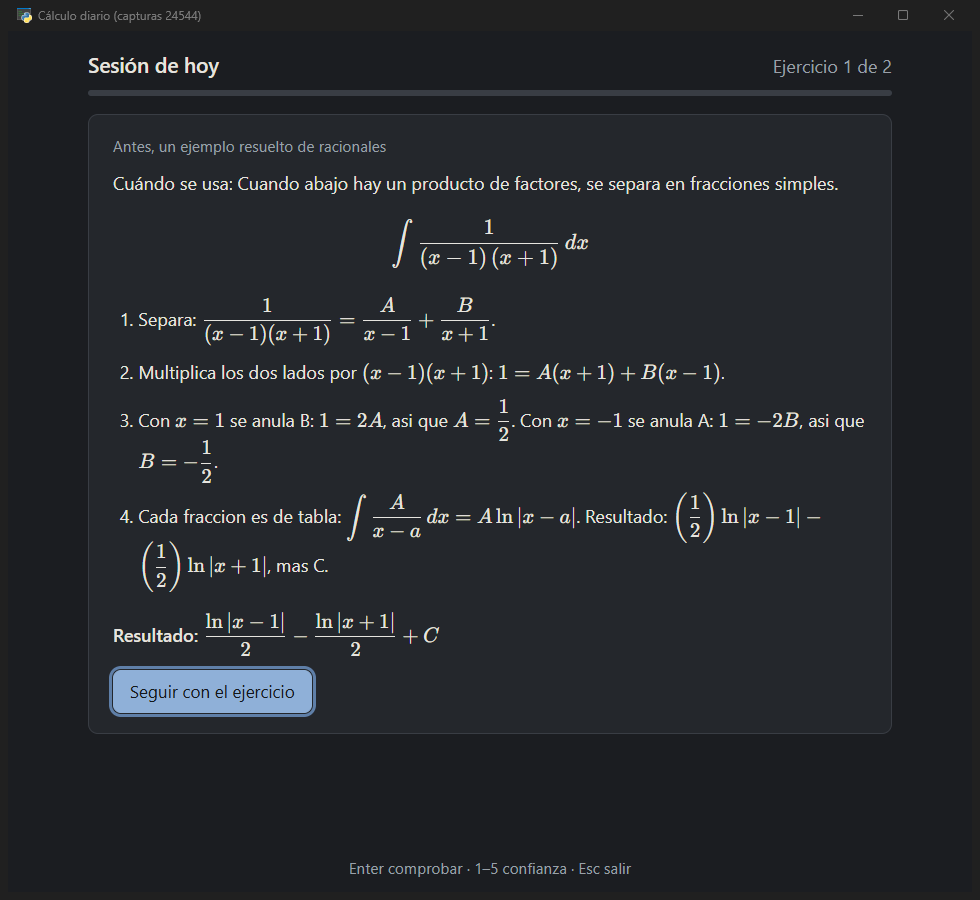
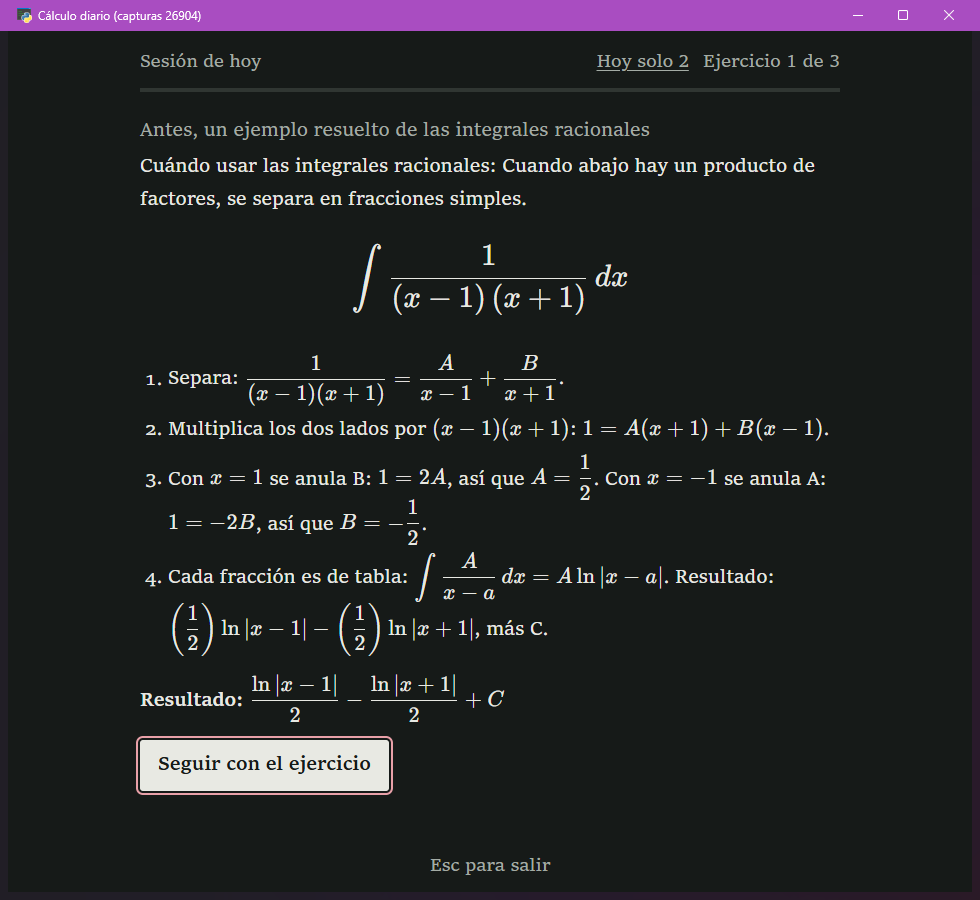
docs: README, notas de diseño y capturas al día (lecciones, modo examen y diseño Libro)

diff --git a/programa/herramientas/capturas_ventana.py b/programa/herramientas/capturas_ventana.py
@@ -7,7 +7,8 @@ una cola fija y la recorre sola para fotografiar los estados con formulas:
   2. la confianza y la vista previa «He leido» de una respuesta;
   3. una integral con la solucion visible (R-DOS, tras pistas 1 y 2);
   4. el ejemplo de la tecnica «constante» (si toca), una parcial con la pista 3
-     y la misma parcial ya comprobada.
+     y la misma parcial ya comprobada;
+  5. la leccion de integracion por partes: la teoria y un paso del ejemplo guiado.
 
 Ademas copia cada foto, numerada, en CARPETA/fotogramas (los fotogramas del GIF).
 Nunca toca usuario/datos ni sube nada (git=False). Uso, desde la raiz del repo:
@@ -31,7 +32,8 @@ from calculo import registro, servicio, ventana  # noqa: E402
 from calculo.fichas import cargar  # noqa: E402
 
 COLA = [{"ficha": "R-DOS", "semilla": 1, "motivo": "nueva"},
-        {"ficha": "PC-POLI-X", "semilla": 1, "motivo": "nueva"}]
+        {"ficha": "PC-POLI-X", "semilla": 1, "motivo": "nueva"},
+        {"ficha": "PA-XEXP", "semilla": 1, "motivo": "nueva"}]
 
 
 def main(carpeta):
@@ -129,6 +131,19 @@ def main(carpeta):
             esperar(f"{fase} !== 'respuesta'")
             js("window.scrollTo(0, 0)")
             foto("parcial-correcta")
+            if js(fase) == "causa":
+                js("document.dispatchEvent(new KeyboardEvent('keydown', {key: '1', bubbles: true}))")
+            esperar(f"{fase} === 'hecho'")
+            js("document.getElementById('siguiente').click()")
+            esperar(f"{fase} === 'leccion'")
+            foto("leccion-teoria")
+            for _ in (1, 2):
+                js("document.getElementById('leccion-siguiente').click()")
+                time.sleep(0.3)
+            esperar("document.querySelectorAll('#leccion-cuerpo button.opcion').length > 0")
+            js("document.querySelector('#leccion-cuerpo button.opcion[data-correcta=\"\"]').click()")
+            esperar("document.querySelector('.opcion-nota').textContent.length > 0")
+            foto("leccion-guiado")
         except Exception as exc:
             error.append(repr(exc))
         finally:

diff --git a/README.md b/README.md
@@ -8,13 +8,13 @@ A local practice app for derivatives, integrals, partial derivatives and ODEs: i
 
 [![Python 3.13](https://img.shields.io/badge/python-3.13-3776AB?logo=python&logoColor=white)](https://www.python.org/)
 [![License: MIT](https://img.shields.io/badge/license-MIT-green.svg)](LICENSE)
-[![Tests](https://img.shields.io/badge/tests-454%20passing%20%C2%B7%203%20skipped-brightgreen.svg)](#tests)
+[![Tests](https://img.shields.io/badge/tests-485%20passing%20%C2%B7%203%20skipped-brightgreen.svg)](#tests)
 [![Platform](https://img.shields.io/badge/platform-Windows%20(tested)-0078D6?logo=windows&logoColor=white)](#quick-start)
 [![Offline](https://img.shields.io/badge/offline-no%20account%2C%20no%20cloud-555.svg)](#engineering-highlights)
 
 [Español](README.es.md) · [Design notes](programa/docs/DESIGN.md) · by [Ricardo Eiras](https://github.com/RicardoeeE) — Mechanical Engineering student
 
-<img src="programa/docs/capturas/demo.gif" alt="A session: worked example, confidence, live 'I read' preview, hints, solution and a partial derivative checked" width="760">
+<img src="programa/docs/capturas/demo.gif" alt="A session: worked example, confidence, live 'I read' preview, hints, solution, a partial derivative checked and a guided lesson" width="760">
 
 </div>
 
@@ -33,16 +33,18 @@ A local practice app for derivatives, integrals, partial derivatives and ODEs: i
 | ✅ **Answer checking** | Integrals by differentiation, ODEs by substitution, everything by random-point sampling; `+C` and `ln|x|` warnings |
 | 🩺 **Mistake diagnosis** | Rule-based: factor, sign, chain/product rule, wrong variable, integrate vs. differentiate, wrong root signs |
 | ✍ **Type like on paper** | `e^2x/2 + C`, `x sen x`, `2±3i`, `y = C1 e^x + C2 e^(3x)`; live KaTeX preview before checking |
+| 📖 **Guided lessons** | For 7 core techniques (product rule, integration by parts, characteristic equation, checking an ODE solution, Wronskian, particular solution, IVP): when to use it, how to spot it, standard form, steps and typical mistakes, 2–3 worked examples and a step-by-step guided example with 3 choices, each one explaining why it is right or wrong. Every computation is verified with SymPy |
 | 🪜 **Hints and faded examples** | 3 graded hints + full solution; worked examples lose a step each time you succeed |
 | 📈 **Mastery and ladder** | Beta-Binomial mastery per technique unlocks the next step; implicit repetition through a technique graph |
-| 📝 **Exam modes** | Exam-focused sessions, timed mock exams, adaptive placement test |
+| 📝 **Exam modes** | When an exam is close, a button in the window starts extra rounds of only its techniques (they don't use the daily cap); timed mock exams and an adaptive placement test in the terminal |
+| 📐 **Textbook layout** | Light and dark themes, text on the left, centred and numbered equations, one background, no shadows, five type sizes; works down to a 400 px wide window |
 | 🔒 **Your data, safe** | Append-only JSON Lines, file locks, fsync + re-read, SHA-256-verified backups, git sync |
 
 ## Quick start
 
 1. **Get it:** `git clone https://github.com/RicardoeeE/calculus-daily.git` (tested on Python 3.13; `doctor` accepts 3.11 or newer).
 2. **Run it:**
-   - **Windows:** double-click `Practicar.bat`. The first run creates a `.venv` and installs SymPy, FSRS and the window (about 3 min).
+   - **Windows:** double-click `Practicar.bat`. The first run creates a `.venv` and installs SymPy, FSRS and the window (about 3 min); after that the window opens straight away and the console closes at once. Optional: `programa\herramientas\crear-acceso.ps1` adds a Start-menu shortcut that opens the window with no console at all.
    - **Any OS:**
      ```bash
      python -m venv .venv
@@ -59,8 +61,10 @@ A local practice app for derivatives, integrals, partial derivatives and ODEs: i
 
 ## Screenshots
 
-| Worked example (partial fractions) | Partial derivative with hint 3 |
+| Lesson: integration by parts | Guided example, a wrong choice explained |
 |---|---|
+| <img src="programa/docs/capturas/ventana-leccion-teoria.png" alt="Lesson on integration by parts: when to use it, standard form and steps" width="420"> | <img src="programa/docs/capturas/ventana-leccion-guiado.png" alt="Guided example with three choices; the chosen wrong one explains why" width="420"> |
+| **Worked example (partial fractions)** | **Partial derivative with hint 3** |
 | <img src="programa/docs/capturas/ventana-ejemplo-racionales.png" alt="Worked example of partial fractions rendered with KaTeX" width="420"> | <img src="programa/docs/capturas/ventana-parcial-pista3.png" alt="Partial derivative exercise showing three graded hints" width="420"> |
 | **Solution after two hints** | **Live "I read" preview** |
 | <img src="programa/docs/capturas/ventana-integral-solucion.png" alt="Integral exercise with the step-by-step solution" width="420"> | <img src="programa/docs/capturas/ventana-vista-previa.png" alt="Answer typed in class notation with its KaTeX preview" width="420"> |
@@ -108,9 +112,9 @@ calculus-daily/
 └── programa/
     ├── practica.py        ← CLI entry point (hoy, ventana, informe, doctor, examen, simulacro…)
     ├── calculo/           ← engine: reader, checker, diagnosis, FSRS planner, service layer, window
-    ├── fichas/            ← exercise cards (TOML), worked examples, technique graph, exam calendar
+    ├── fichas/            ← exercise cards (TOML), worked examples, lessons, technique graph, exam calendar
     ├── interfaz/          ← window UI (HTML/CSS/JS) + KaTeX 0.19.1 (MIT)
-    ├── herramientas/      ← daily reminder (Windows task), screenshot tool
+    ├── herramientas/      ← daily reminder (Windows task), Start-menu shortcut, background test runner, screenshot tool
     ├── tests/             ← unittest suite
     └── docs/              ← design notes, cheat sheet, screenshots
 ```
@@ -118,11 +122,14 @@ calculus-daily/
 ## Tests
 
 ```bash
-.venv/bin/python -B -m unittest discover -s programa/tests -t programa     # 457 tests (454 pass, 3 skipped), about 12 min
+.venv/bin/python programa/herramientas/pruebas.py                          # 488 tests (485 pass, 3 skipped), about 8 min
+.venv/bin/python -B -m unittest discover -s programa/tests -t programa     # the same suite with plain unittest
 .venv/bin/python programa/practica.py ventana --prueba                     # smoke test: opens the window with temp data and closes itself
 ```
 
-The suite covers the reader and checker (a 34-integral battery with equivalent and wrong forms), every card and worked example, FSRS simulations of 100 days with skipped days, concurrent writers, git sync between two clones, and the window API.
+`pruebas.py` runs the suite in the background: on Windows no test opens a console window, and it uses a temporary `.cache`, so the warnings the tests provoke on purpose never reach your real log.
+
+The suite covers the reader and checker (a 34-integral battery with equivalent and wrong forms), every card and worked example, FSRS simulations of 100 days with skipped days, every computation of the lessons (with SymPy), concurrent writers, git sync between two clones, and the window API.
 
 ## Adding exercises
 
@@ -131,7 +138,8 @@ Cards live in `programa/fichas/*.toml`. Each needs an `id`, `tipo`, `tecnica`, `
 ## Roadmap
 
 - [ ] Resume a half-finished exercise inside the window (today the queue resumes; hints and failed checks are kept).
-- [ ] Mock exam and placement test inside the window (terminal only for now).
+- [ ] Mock exam and placement test inside the window (exam practice is already there; these two are terminal only for now).
+- [ ] Lessons for the other 18 techniques (today they have a worked example).
 - [ ] Personal FSRS parameters once there are enough reviews (calibration is already reported).
 - [ ] English interface.
 

diff --git a/programa/docs/DESIGN.md b/programa/docs/DESIGN.md
@@ -16,10 +16,11 @@ You solve on paper. The program decides what is due today, checks the result obj
 ## 2. A session
 
 1. **Queue.** 5 exercises (2 on a "minimum day"): 1 algebra warm-up, then partial derivatives/ODEs, derivatives and integrals. Overdue reviews always get a seat; backlog after missed days is spread over several days, most urgent first. The session starts with the exercise most likely to go well.
-2. **Confidence.** Before answering, the student rates confidence 1–5 (used for calibration, never for the grade).
-3. **Answer.** Only the final result, in the notation used in class: `e^2x/2 + C`, `sen x cos x`, `ln|x-3|`, `2±3i`, `y = C1 e^x + C2 e^(3x)`. The window shows a neutral "I read: …" preview rendered with KaTeX before checking.
-4. **Help.** Three graded hints (shape → technique → first step), then the worked solution. "I don't know where to start" shows the worked example of the technique and counts as hint 2.
-5. **Close.** A short feeling score and an optional comment; the day's block is written to the diary and the data is committed.
+2. **Lesson (first time only).** For 7 core techniques, the first time one comes up without a success (or after failing it) a short lesson opens before the exercise: theory, 2–3 worked examples and a guided example (see 4.7). "Go straight to the exercise" skips it, and "See theory" opens it again during the exercise.
+3. **Confidence.** Before answering, the student rates confidence 1–5 (used for calibration, never for the grade).
+4. **Answer.** Only the final result, in the notation used in class: `e^2x/2 + C`, `sen x cos x`, `ln|x-3|`, `2±3i`, `y = C1 e^x + C2 e^(3x)`. The window shows a neutral "I read: …" preview rendered with KaTeX before checking.
+5. **Help.** Three graded hints (shape → technique → first step), then the worked solution. "I don't know where to start" shows the worked example of the technique and counts as hint 2.
+6. **Close.** A short feeling score and an optional comment; the day's block is written to the diary and the data is committed.
 
 ## 3. Checking answers
 
@@ -58,13 +59,28 @@ Each technique (substitution, parts, partial fractions...) has a success rate p 
 
 ### 4.5 Exams, placement test, mock exams
 
-- `fichas/calendario.toml` opens an exam's techniques some days before it, even if the ladder has not reached them. `examen` runs an extra session with only those techniques (weakest first, interleaved).
+- `fichas/calendario.toml` opens an exam's techniques some days before it, even if the ladder has not reached them. While an exam is that close, the first new card of each group is one of its techniques: the least seen one and, on a tie, the lowest step. In a 100-day simulation (6 seeds × 2 scenarios) this raised the techniques practised before a 7-technique exam from 2 to 6, with the same daily load.
+- Exam practice runs in the window: a "Preparar …" button between exercises starts 5 extra exercises of only that exam's techniques (weakest first, interleaved), recorded with the reason `examen` and outside the daily cap; the same button goes back to today's session. `practica.py examen` does the same in the terminal.
 - The placement test is adaptive and derived from the log: per group it climbs the ladder while the student answers without hints and stops at the first failure.
 - `simulacro` is a timed mock exam: no hints and no feedback until the end; the time limit is checked in Python.
 
 ### 4.6 Worked examples with gaps (fading)
 
 The first time a technique appears, a fully worked example is shown. After 1 success, one step is hidden ("Step 3: ____"), after 2 successes two steps, and from 3 successes no example. After a failure, the full example comes back.
+
+### 4.7 Lessons
+
+`fichas/lecciones.toml` holds one lesson per core technique, in three parts:
+
+- **Theory:** what it is for, how to recognise it, the standard form, how to apply it and typical mistakes.
+- **Examples:** 2 or 3 fully worked.
+- **Guided:** the student solves one step by step, choosing among 3 options. Every option explains why it is right or wrong, and the next step only opens after the right one. It is not graded or logged.
+
+`tests/test_lecciones.py` checks every computation of the examples and the guided steps with SymPy, that each step has exactly one right option (not always in the same place), and that every formula converts to LaTeX.
+
+### 4.8 Focus group
+
+While the partial-derivatives group (partials, exact ODEs, higher-order ODEs) has never been mastered, it gets 2 of the 5 daily seats. The focus switches off once every technique of steps 1–4 of that group has been mastered at some point. During the focus, algebra and derivatives take turns: if the last practised day had no derivative, today's algebra seat goes to one. A 100-day simulation showed derivatives otherwise almost never came up (1 of 19 cards seen).
 
 ## 5. Data safety
 
@@ -83,6 +99,8 @@ The data files (`usuario/datos/*.jsonl`) only grow, one line per fact. "Losing d
 
 - **Service layer** (`calculo/servicio.py`, class `Sesion`): the session logic without `input()` or `print`. Everything that matters lives on disk (log and `.cache` under lock), so the window, the terminal and the JSON commands can pick up the same session. Every public method returns a JSON-serialisable dict with `ok`; exceptions become `{ok: False, error}` and go to a log.
 - **Window** (`calculo/ventana.py` + `interfaz/`): pywebview with the system WebView2, KaTeX 0.19.1 bundled locally (no network, strict CSP, `trust: false`, text via `textContent`, never `innerHTML`). A custom converter turns class notation into LaTeX *as written* (SymPy's printer reorders `3(x-2)` into `3x - 6`, which would give away the answer). Single instance, launched with `pythonw` so no console stays open; if the window cannot open, exit code 3 and the terminal takes over.
+- **Design:** the window is laid out like a maths textbook: text on the left, centred and numbered equations, a discreet page header, a single background with no shadows or cards, and only five type sizes. Light and dark follow the system. The layout adapts to any width (tested at 420 px, no horizontal scroll; the window can shrink to 400 px). Focus never lands on the first option of a choice, so an extra Enter cannot pick "no idea"; the footer shows only the keys of the current screen.
+- **Launch:** with the environment ready, `Practicar.bat` opens the window with `pythonw` directly and its console closes in about 60 ms; if the window does not open, it relaunches itself on the full path (checks, reinstall, terminal). The reminder task runs PowerShell through `conhost --headless`, so no console flashes.
 - **Terminal** (`practica.py hoy`): the same session, keyboard only.
 - **JSON / reviewer mode**: `cola`, `comprobar`, `pista`, `registrar`, `pendientes`, `resolver` let a script or a person run a session step by step. Students can flag "my answer was right" (a claim): it is graded 2 provisionally and listed in `pendientes` until someone resolves it.
 

diff --git a/README.es.md b/README.es.md
@@ -8,13 +8,13 @@ Práctica diaria de derivadas, integrales, derivadas parciales y EDOs: elige lo 
 
 [![Python 3.13](https://img.shields.io/badge/python-3.13-3776AB?logo=python&logoColor=white)](https://www.python.org/)
 [![Licencia: MIT](https://img.shields.io/badge/licencia-MIT-green.svg)](LICENSE)
-[![Pruebas](https://img.shields.io/badge/pruebas-454%20en%20verde%20%C2%B7%203%20omitidas-brightgreen.svg)](README.md#tests)
+[![Pruebas](https://img.shields.io/badge/pruebas-485%20en%20verde%20%C2%B7%203%20omitidas-brightgreen.svg)](README.md#tests)
 [![Plataforma](https://img.shields.io/badge/plataforma-Windows%20(probado)-0078D6?logo=windows&logoColor=white)](#empezar)
 [![Sin conexión](https://img.shields.io/badge/sin%20conexi%C3%B3n-sin%20cuenta%20ni%20nube-555.svg)](README.md#engineering-highlights)
 
 [English](README.md) · [Notas de diseño (EN)](programa/docs/DESIGN.md) · por [Ricardo Eiras](https://github.com/RicardoeeE) — estudiante de Ingeniería Mecánica
 
-<img src="programa/docs/capturas/demo.gif" alt="Una sesión: ejemplo resuelto, confianza, vista previa «He leído», pistas, solución y una parcial corregida" width="760">
+<img src="programa/docs/capturas/demo.gif" alt="Una sesión: ejemplo resuelto, confianza, vista previa «He leído», pistas, solución, una parcial corregida y una lección guiada" width="760">
 
 </div>
 
@@ -30,9 +30,11 @@ Práctica diaria de derivadas, integrales, derivadas parciales y EDOs: elige lo 
 - 🎲 172 fichas de 25 técnicas, 87 de ellas con parámetros; todas las claves comprobadas con SymPy.
 - ✅ Corrección simbólica y por muestreo; avisos de `+C` y de `ln|x|`.
 - ✍ Se escribe como en el papel (`e^2x/2 + C`, `x sen x`, `2±3i`) con vista previa en KaTeX.
+- 📖 Lecciones de 7 técnicas clave: teoría, forma tipo, errores típicos, 2-3 ejemplos y un ejemplo guiado con opciones que explican por qué están bien o mal.
 - 🪜 Tres pistas graduadas, solución paso a paso y ejemplos resueltos con huecos.
 - 📈 Dominio por técnica (Beta-Binomial), escalera de técnicas y repetición implícita.
-- 📝 Preparación de examen, simulacro cronometrado y prueba de nivel.
+- 📝 Con un examen cerca, un botón en la ventana da rondas extra solo de sus técnicas; simulacro cronometrado y prueba de nivel en la terminal.
+- 📐 Diseño de libro de matemáticas, claro y oscuro, que se adapta a cualquier ancho.
 - 🔒 Datos en JSON Lines que solo se amplían, con cerrojo, copias verificadas con SHA-256 y git.
 
 ## Empezar
@@ -63,7 +65,7 @@ Los detalles (nota objetiva, FSRS, dominio, grafo de técnicas, protección de d
 ## Pruebas
 
 ```bash
-.venv\Scripts\python.exe -B -m unittest discover -s programa/tests -t programa   # 457 pruebas (454 en verde, 3 omitidas)
+.venv\Scripts\python.exe programa\herramientas\pruebas.py                         # 488 pruebas (485 en verde, 3 omitidas), sin ventanas, unos 8 min
 .venv\Scripts\python.exe programa\practica.py ventana --prueba                   # humo de la ventana
 ```
 
